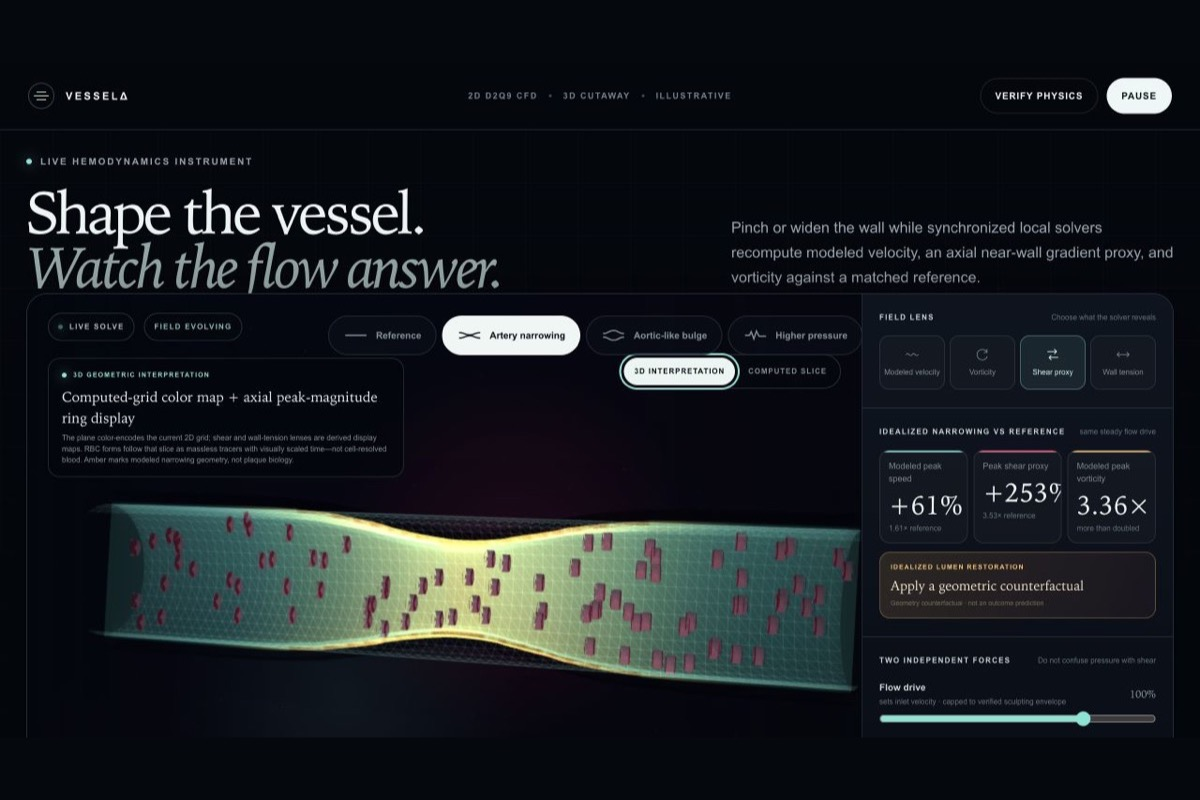
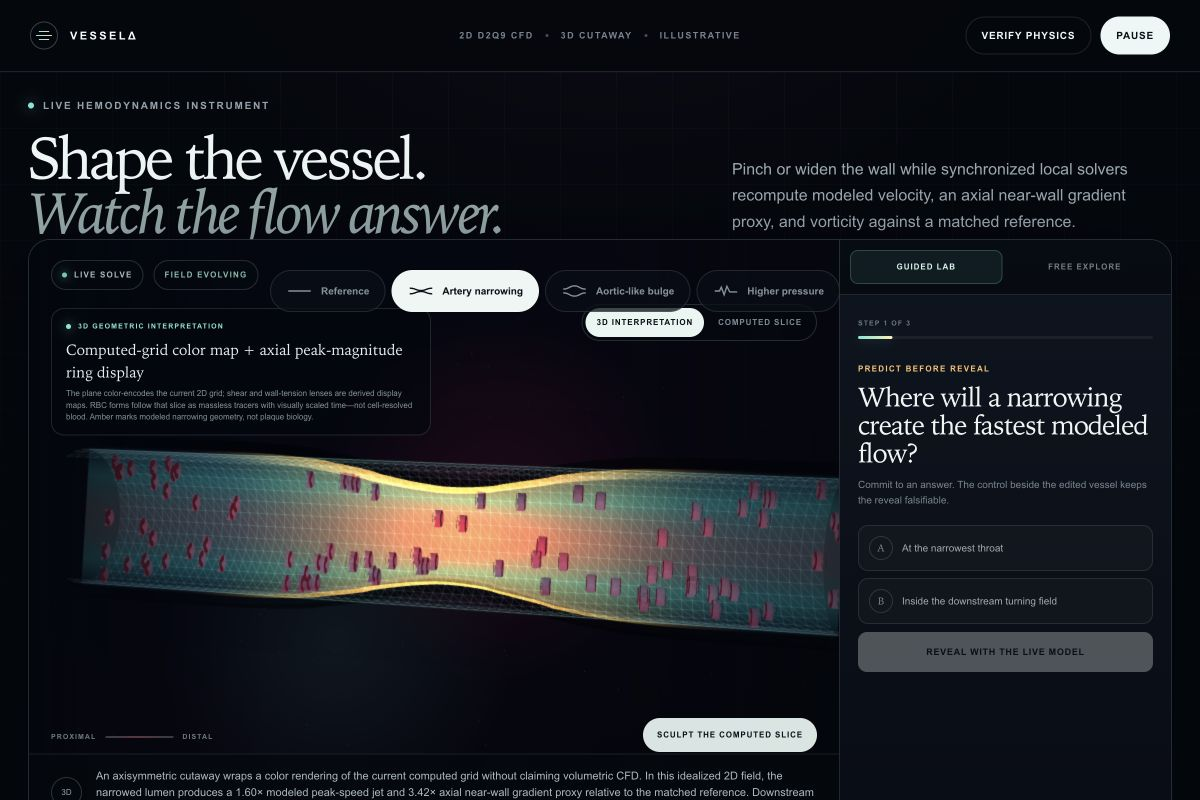
Align VesselDelta gallery with guided judge path

diff --git a/submission-assets/README.md b/submission-assets/README.md
@@ -1,6 +1,6 @@
 # VesselDelta submission gallery
 
-These images were captured from one post-warm-up, gate-passing run of the verified local build on July 21, 2026. The interface intentionally still says `FIELD EVOLVING`; the screenshots are release assets, not convergence or scientific evidence. Upload only after the final deployed build is visually compared against them.
+These images were captured from one verified local browser session on July 21, 2026 after the complete guided journey passed at the desktop viewport and the single-column layout was inspected at `390 × 844`. Whenever a screenshot displays comparison ratios, both fields had finished their accelerated warm-up and passed the instrument’s numerical gate. The interface intentionally still says `FIELD EVOLVING`; these are release assets, not convergence or scientific evidence. Upload only after the final deployed build is visually compared against them.
 
 Use `thumbnail-1200x800.jpg` for Devpost’s recommended `3:2` project thumbnail. Use `00-cover-1280x720.jpg` as the 16:9 gallery cover and YouTube-thumbnail fallback.
 
@@ -8,26 +8,26 @@ Use `thumbnail-1200x800.jpg` for Devpost’s recommended `3:2` project thumbnail
 
 ### 1. `00-cover-1280x720.jpg`
 
-**Caption:** Rotate an illustrative cutaway around the live `160 × 70` D2Q9 grid. The 3D wall and RBC-shaped objects are visual guides; the computed field remains two-dimensional.
+**Caption:** Begin with a prediction, not a canned animation. The default guided lab surrounds the live `160 × 70` D2Q9 grid with an illustrative 3D cutaway; the RBC-shaped objects are massless visual guides.
 
 Use as the project cover and video-thumbnail fallback.
 
-### 2. `02-computed-shear-proxy.jpg`
+### 2. `01-guided-gated-reveal-1280x720.jpg`
 
-**Caption:** Open the current computed grid and compare it with a synchronized reference. This is a normalized axial near-wall gradient proxy, not clinical wall shear stress.
+**Caption:** After withholding ratios during recomputation, VesselDelta reveals the modeled throat jet and normalized axial near-wall gradient proxy only when both fields pass the numerical gate—not clinical wall shear stress.
 
-### 3. `03-rupture-boundary.jpg`
+### 3. `02-pressure-separation-1280x720.jpg`
+
+**Caption:** Higher illustrative pressure changes a separate pressure–radius circumferential-tension index while CFD flow drive remains unchanged. The ratio is not mm Hg, hoop stress, or patient risk.
+
+### 4. `03-rupture-boundary.jpg`
 
 **Caption:** VesselDelta refuses rupture prediction because this rigid-wall model lacks measured wall thickness, tissue strength, growth history, and fluid–structure coupling.
 
-### 4. `05-lifestyle-evidence.jpg`
+### 5. `04-live-verification-1280x720.jpg`
 
-**Caption:** Sourced AHA ranges describe sustained, overlapping population effects. They never alter the CFD; do not arithmetically sum the displayed ranges into a personal forecast.
-
-### 5. `06-medication-mechanism.jpg`
-
-**Caption:** Explore illustrative medication pathways without simulating dose, efficacy, or patient response. The mechanism animation never changes the CFD. No physician review or clinical validation was completed.
+**Caption:** Inspect the running model: main instrument-loop rate, low-Mach envelope, fitted Poiseuille-profile shape, density stability, finite-value guard count, and both synchronized `160 × 70` fields.
 
 ## Upload boundary
 
-Before upload, compare each image with the public deployment at the same viewport. Replace any stale screenshot if the released UI, wording, or numerical gate differs. Do not crop away the `2D D2Q9 CFD · 3D cutaway · Illustrative` receipt from the cover. The cover and computed-grid capture intentionally come from the same gate-passing run and were captured within one UI metric interval so their displayed ratios match.
+Before upload, compare each image with the public deployment at the same viewport. Replace any stale screenshot if the released UI, wording, or numerical gate differs. Do not crop away the `2D D2Q9 CFD · 3D cutaway · Illustrative` receipt from the cover. Do not use the screenshots themselves as validation evidence; the reproducible benchmark and live verification drawer are the evidence paths.

diff --git a/VALIDATION.md b/VALIDATION.md
@@ -24,7 +24,7 @@ Run on July 21, 2026 from the current working state:
 |---|---:|---:|
 | Grid | 160 × 70 | 160 × 70 |
 | Solver steps | 10,000 | 10,000 |
-| Solver throughput in Node | 1,910 steps/s | 1,996 steps/s |
+| Solver throughput in Node | 1,900 steps/s | 2,057 steps/s |
 | Fitted profile-shape L2 error | 0.0709% | 0.0519% |
 | Maximum Mach number | 0.04695 | 0.07548 |
 | Density spread | 0.00262 | 0.00484 |
@@ -86,7 +86,9 @@ The current suite establishes that:
 
 The 3D cutaway is an axisymmetric surface-of-revolution interpretation of the 2D wall profile. It contains a cell-by-cell 8-bit color rendering of the current grid, with derived display maps for shear and wall tension; its ring-projected surface colors and depth are illustrative. There is no 3D solver to validate.
 
-The live FPS card reports the main instrument animation loop, not independent GPU timing for the Three.js renderer. On July 21, 2026, the current local 3D build was exercised in the Codex in-app Chromium browser at its default `1280 × 720` viewport and at a temporary `390 × 844` responsive viewport. Reference, narrowing, full lumen restoration, higher-pressure separation, 3D/2D switching, and the rupture-boundary modal were inspected. The normal display cadence held `60 FPS` and approximately `239–241` twin solver steps/s during those checks. After the accelerated warm-up was added, a fresh default narrowing load exposed gate-passing comparison values after approximately `7.2 seconds` on that same local browser; the post-warm-up card showed `FIELD EVOLVING`, and the browser error log remained empty. This is one-browser local evidence—not a cross-device GPU or load-time guarantee.
+The live FPS card reports the main instrument animation loop, not independent GPU timing for the Three.js renderer. On July 21, 2026, the current local 3D build was exercised in the Codex in-app Chromium browser at its default `1280 × 720` viewport and at a temporary `390 × 844` responsive viewport. Reference, narrowing, full lumen restoration, higher-pressure separation, 3D/2D switching, and the rupture-boundary modal were inspected. The normal display cadence held `60 FPS` and approximately `239–241` twin solver steps/s during those checks. After the accelerated warm-up was added, a fresh default narrowing load exposed gate-passing comparison values after approximately `7.2 seconds` on that same local browser; the post-warm-up card showed `FIELD EVOLVING`.
+
+After the default guided-lab refactor at source commit `4278a39`, the browser journey was repeated end to end at `1280 × 720`: the narrowing answer forced ratios to remain blank until the field returned inside the gate, the pressure step left CFD drive unchanged, the rupture step opened the explicit refusal, the `3 / 3` receipt rendered, and Guided Lab re-entry restored the appropriate scenario. The optional Clinical context disclosure opened correctly, and its thiazide tab changed the visible mechanism copy without affecting the solver. At `390 × 844`, the rendered page collapsed to a single-column instrument with a horizontally scrollable story selector, stacked theatre and guided rail, readable body copy, and enlarged primary controls. The final local console log contained no warning or error entries. This is one-browser local evidence—not a cross-device GPU, assistive-technology, deployment, or load-time guarantee.
 
 The production build now code-splits the 3D renderer. In the audited build, the instrument-shell chunk was approximately `52 KiB` raw (`15.6 KiB` gzip) and the lazily loaded Three.js theatre chunk was approximately `532 KiB` raw (`135 KiB` gzip). Vite still reports its conservative `>500 kB` raw-chunk warning for that theatre chunk. Release QA should still record:
 

diff --git a/RELEASE_RUNBOOK.md b/RELEASE_RUNBOOK.md
@@ -49,7 +49,7 @@ SNAP authorization does not transfer to VesselDelta. Before any release mutation
 
 - [ ] Fuzlullah rehearses `VIDEO_SCRIPT.md` once with a timer.
 - [ ] Record the working public build with real spoken audio.
-- [ ] Export below three minutes; target 2:45–2:52 for upload safety.
+- [ ] Export below three minutes; target 2:35–2:45 for upload safety.
 - [ ] Confirm the audio says what was built, how Codex was used, and specifically what GPT-5.6 changed.
 - [ ] Upload publicly to YouTube and verify it in a signed-out window.
 - [ ] Record the URL and measured duration in `release-evidence.json`.